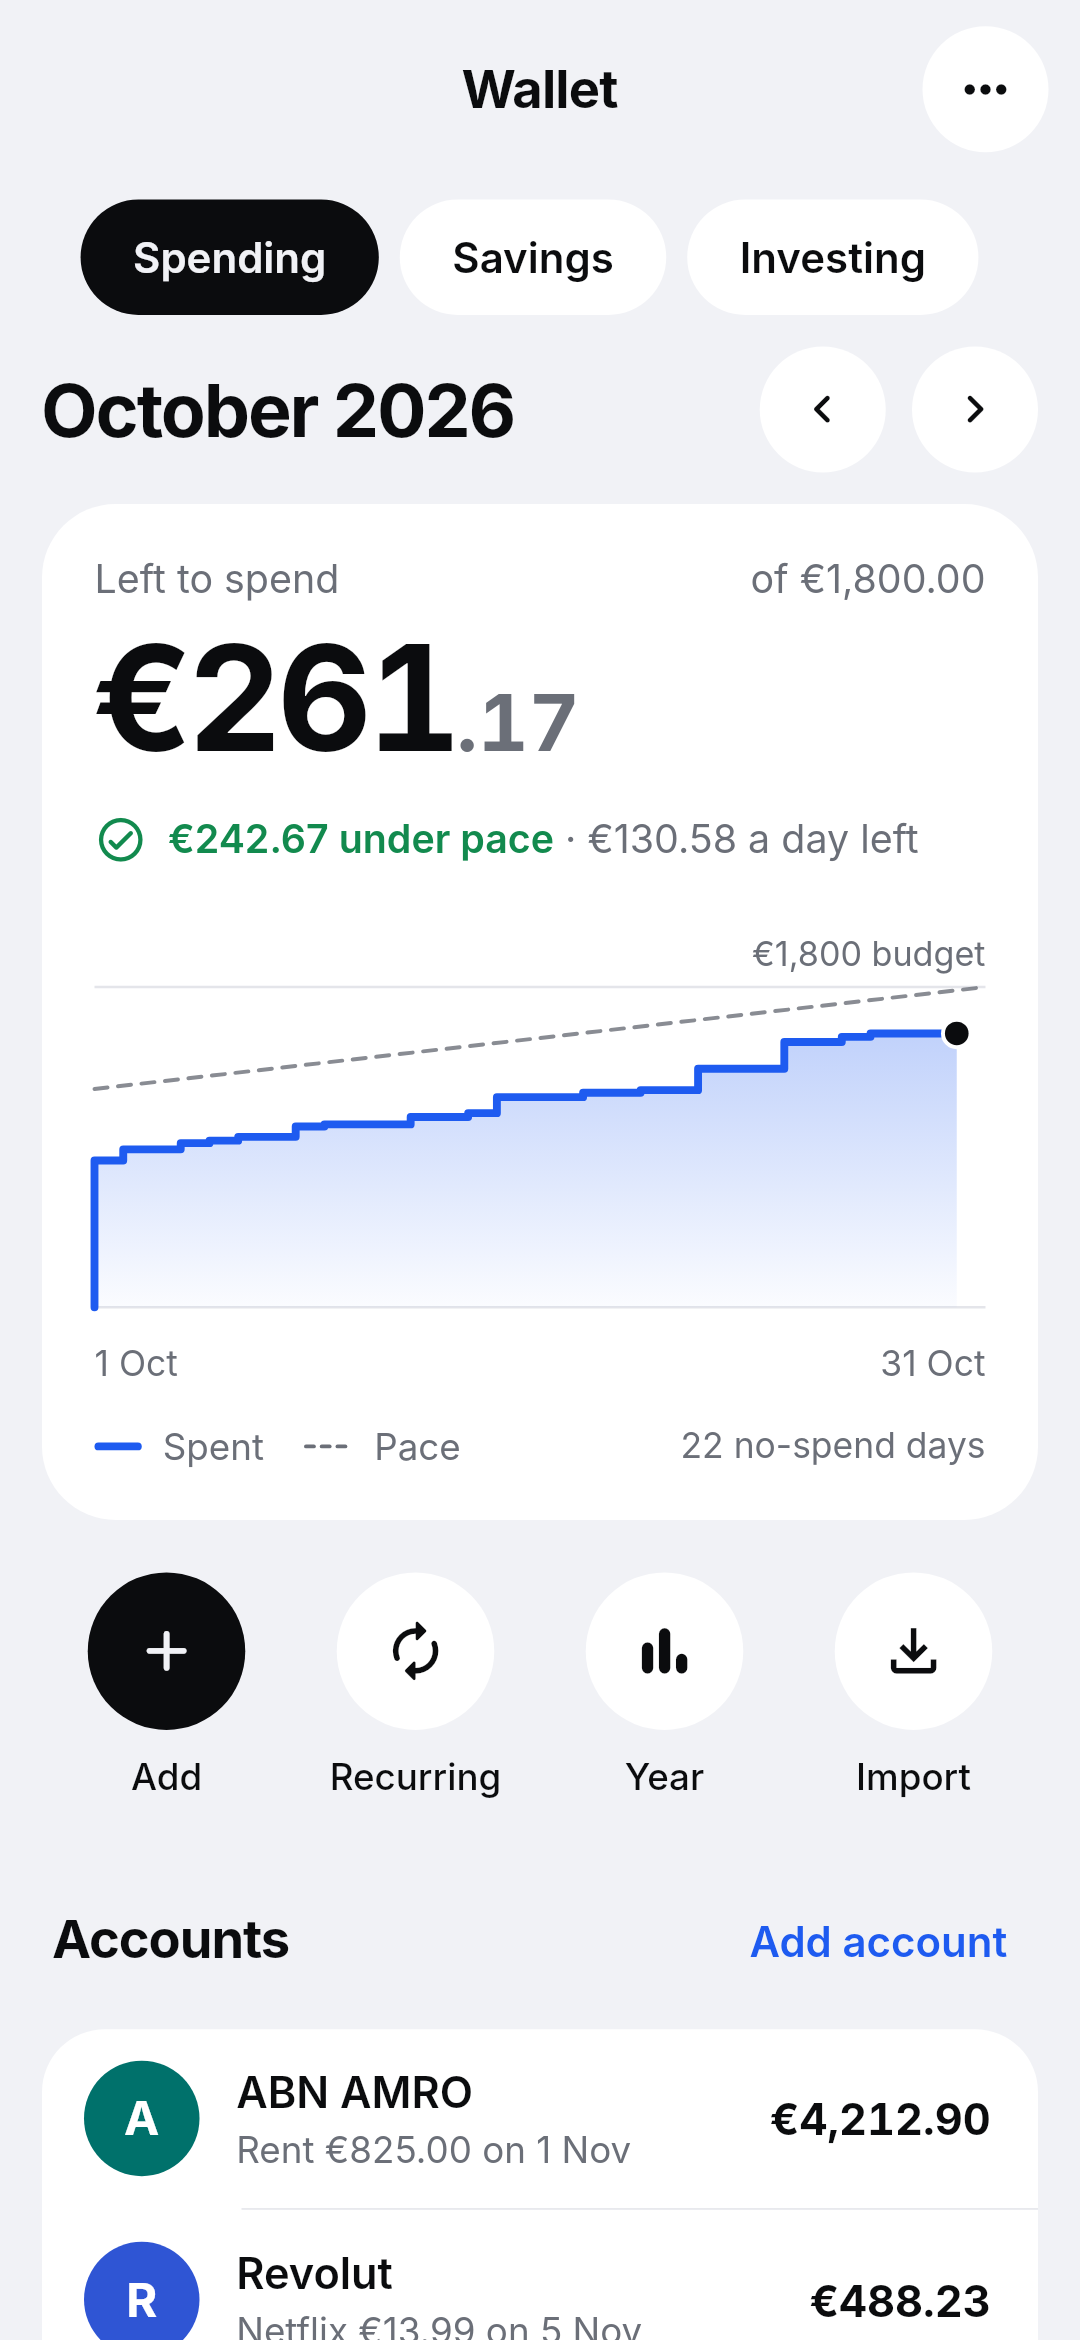
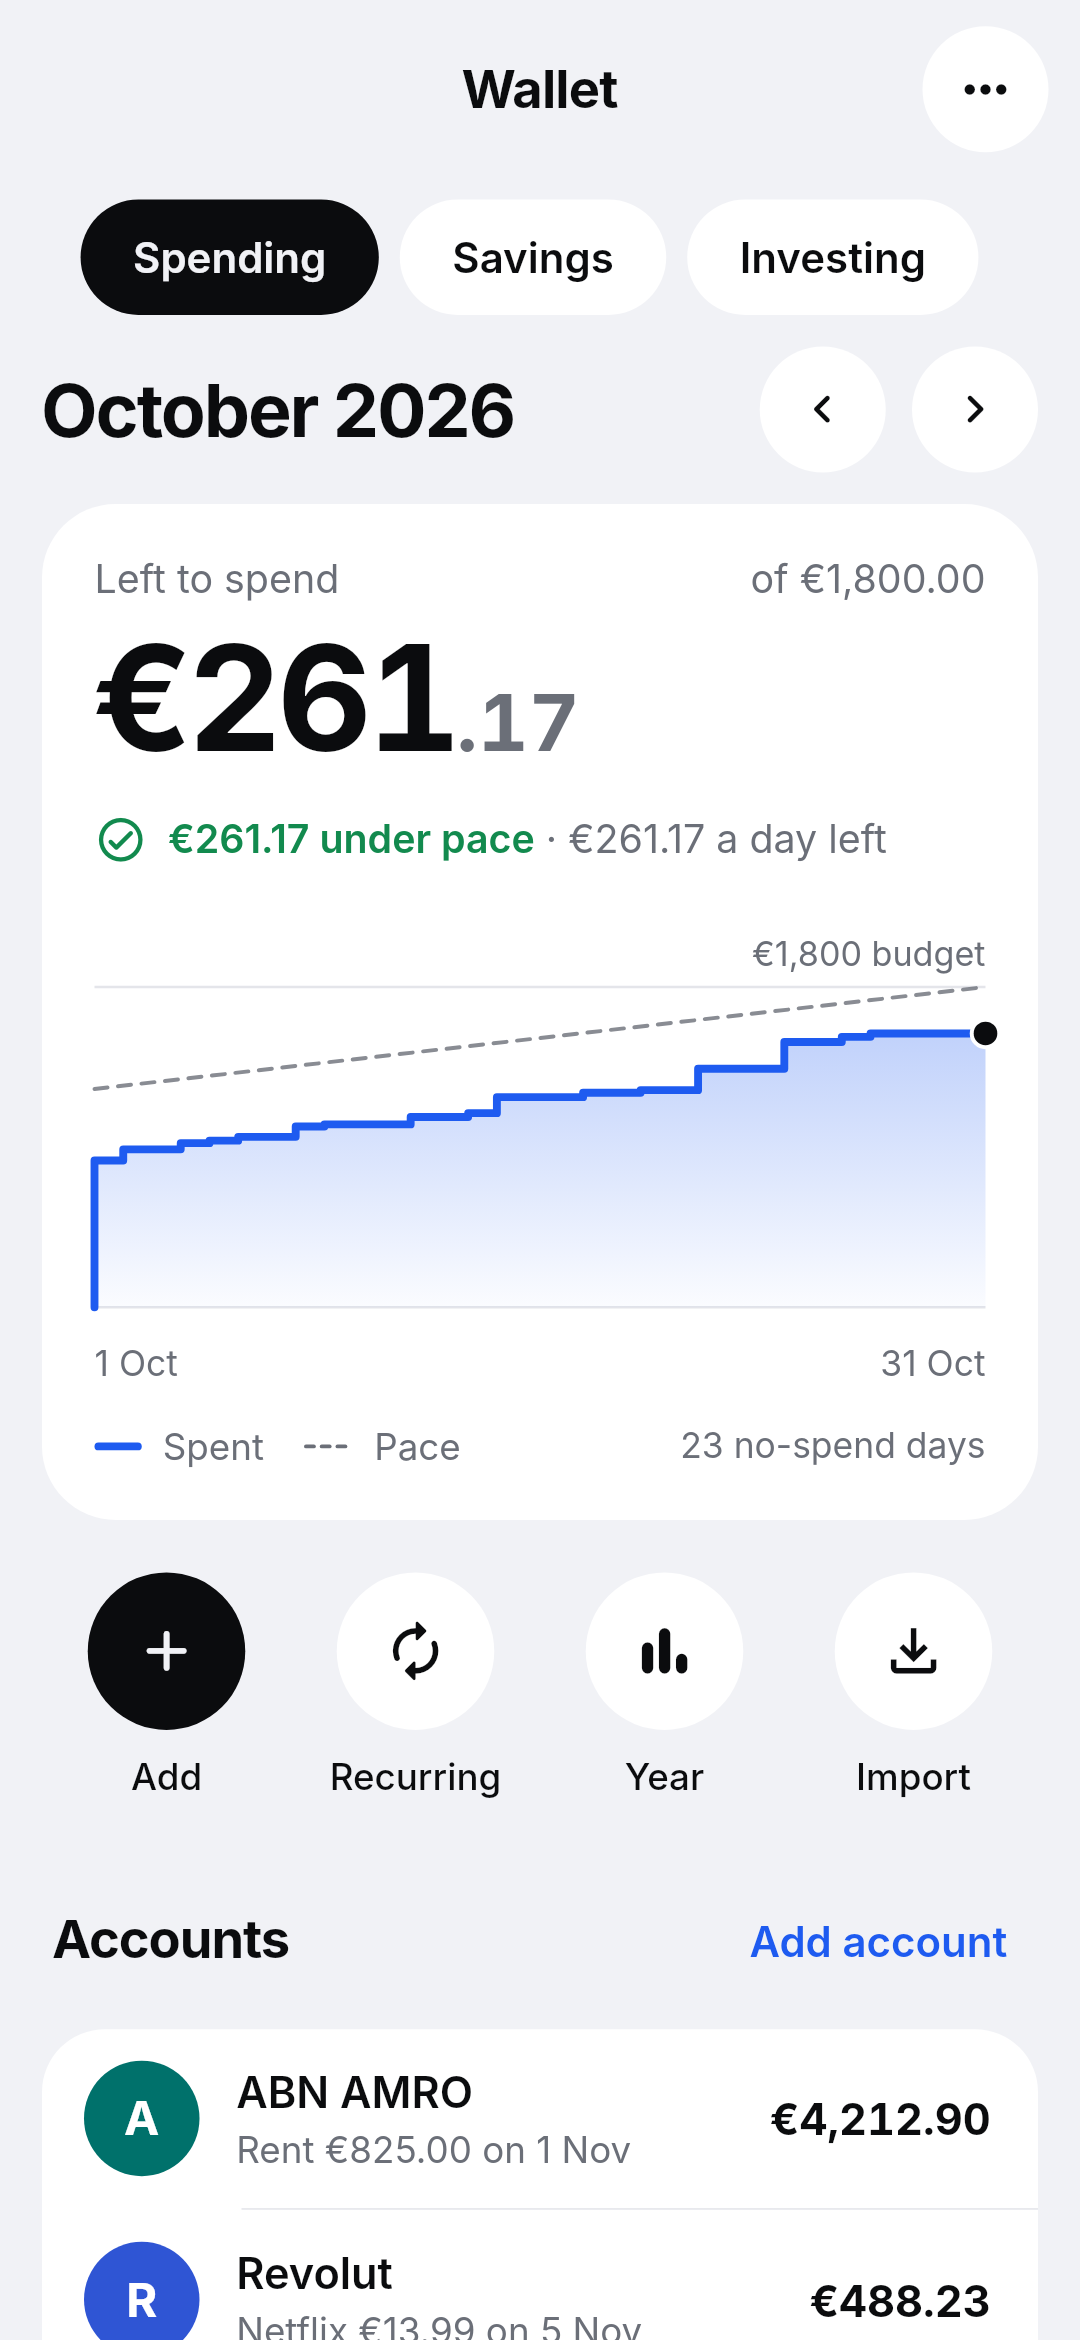
Round 2: tabs and Home customisation, agent edits with Undo, 22 bug fixes, fresh screenshots
Claude-Session: https://claude.ai/code/session_01Fpoxe4eFwgh2tEbagBqPri

Changed region(s): [[0.2139, 0.3432, 0.8556, 0.3744], [0.8556, 0.4368, 0.9167, 0.5303]]

diff --git a/lib/shell/home_page.dart b/lib/shell/home_page.dart
@@ -15,8 +15,7 @@ import '../apps/notes/notes_page.dart';
 import '../apps/registry.dart';
 import '../apps/spaces/my_spaces.dart';
 import '../apps/todo/todo_page.dart';
-import '../apps/wallet/insights.dart' show SpendPlan, spendTargetKey;
-import '../apps/wallet/wallet_model.dart';
+import '../apps/wallet/insights.dart' show monthSpendPlan, spentSoFar, spendTargetKey;
 import '../apps/weather/weather_page.dart';
 import '../apps/weather/weather_service.dart';
 import '../core/db/database.dart';
@@ -603,21 +602,20 @@ class _TodayStrip extends StatelessWidget {
                       stream: db.watchSubscriptions(),
                       builder: (context, sSnap) {
                         final entries = eSnap.data ?? const <Entry>[];
-                        // Booked payments are entries already; count only what is still to leave this month.
-                        final spent = MonthSummary(entries.where((e) => !e.date.isAfter(now)).toList()).out;
+                        // The same sums as Wallet's hero, so Home and Wallet never disagree.
                         if (target == null || target <= 0) {
-                          return _StripCell(value: _wholeMoney(spent, currency), label: 'Spent', onTap: onWallet);
+                          return _StripCell(
+                            value: _wholeMoney(spentSoFar(entries, now), currency),
+                            label: 'Spent',
+                            onTap: onWallet,
+                          );
                         }
-                        final billsAhead = (sSnap.data ?? const <Subscription>[])
-                            .where(
-                              (s) =>
-                                  s.active &&
-                                  s.kind.sign < 0 &&
-                                  !s.nextDate.isBefore(today) &&
-                                  s.nextDate.isBefore(monthEnd),
-                            )
-                            .fold<int>(0, (t, s) => t + s.amountCents);
-                        final plan = SpendPlan(target: target, spent: spent, billsAhead: billsAhead, now: now);
+                        final plan = monthSpendPlan(
+                          target: target,
+                          monthEntries: entries,
+                          subs: sSnap.data ?? const <Subscription>[],
+                          now: now,
+                        );
                         return _StripCell(
                           value: _wholeMoney(plan.left.abs(), currency),
                           label: plan.over ? 'Over target' : 'To spend',

diff --git a/lib/shell/shell.dart b/lib/shell/shell.dart
@@ -138,8 +138,8 @@ class _ShellState extends State<Shell> {
         key: ValueKey(t.id),
         child: switch (t.tab) {
           ShellTab.home => HomePage(onOpenTab: openTab),
-          // Pages that end with fixed padding stop above the bar instead of running on under it.
-          ShellTab.wallet || ShellTab.notes => _AboveBar(child: t.page()),
+          // Notes ends with fixed padding, so it stops above the bar instead of running on under it.
+          ShellTab.notes => _AboveBar(child: t.page()),
           _ => t.page(),
         },
       ),

diff --git a/CHANGELOG.md b/CHANGELOG.md
@@ -4,6 +4,27 @@ Builds are numbered by the CI run. Notable changes, newest first.
 
 ## October 2026
 
+### Your tabs, an agent that can change things, and 22 fixes
+- **Choose your bottom tabs**: pick which tabs sit next to Home (Calendar, Wallet, To-do, AI, Notes), drag them into
+  order and choose the tab Hub opens on. Hold the bar, or go to Me > Navigation.
+- **Top of Home**: switch the greeting, weather card, Today strip and apps on or off, show apps grouped or as one
+  grid, and drag apps into your own order.
+- **Text size**: Standard, Larger or Largest on top of your phone's own setting. The black dark background is now
+  called True black.
+- **The Hub agent can change things**: edit, reschedule or delete tasks and events, add to or rewrite notes, edit
+  recurring payments, add savings deposits, set your monthly budget, log Job hours, add important dates to a space
+  and tick habits. Every change is a card with what it was before; deletes are red. **Add all** for several cards,
+  and **Undo** after any of them.
+- **Ask AI from inside apps**: Explain my month (Wallet), Plan my week (Calendar), Prioritise (To-do), Summarise
+  (Notes).
+- Home and Wallet always agree on what is left to spend. The Work widget shows overtime or hours owed. The Clock
+  widget opens Calendar.
+- Fixes: edits in the task, shopping and event sheets are no longer lost when you swipe them away or press back;
+  date pickers no longer crash on old or far-off dates; Undo always undoes the last thing; "Clear all" done tasks
+  asks first; Duplicate keeps a task's details; an all-day event's start no longer jumps to 23:00; new events start
+  on the hour; mail dates show the year when needed; several sheets no longer overflow with large text or the
+  keyboard up; the Job + button no longer covers the day counts; Wallet scrolls under the glass bar.
+
 ### Wallet tab, an agent that knows your data, Job hours
 - **Wallet is a tab** next to Home, Calendar, To-do and AI. Back from any tab goes to Home; back on Home closes the app.
 - **Am I on track?** Wallet's "Day by day" card: a bar per day, no-spend days, safe to spend today, where the month will

diff --git a/docs/FEATURES.md b/docs/FEATURES.md
@@ -12,6 +12,10 @@ The home screen is a grid of widgets. Two ways to change it:
 - **Hold any widget** to open its settings, or
 - tap the **Edit home** button next to your avatar.
 
+Under **Me** (or **Top of Home** while editing) you can switch the greeting, weather card, Today strip and apps on
+or off, and show apps grouped or as one grid. **Choose apps** hides apps and drags them into order. Hold the bottom
+bar to choose which tabs it shows, their order and the tab Hub opens on.
+
 For each widget you can choose:
 
 | Setting | Options |
@@ -185,6 +189,11 @@ a balance for the year next to holidays left.
 - **The Hub agent reads all your data** through tools: calendar for any dates, recurring payments and subscriptions,
   transactions, balances, savings, investments, notes, tasks, habits, shopping, spaces, the work log and weather.
   Each answer says what it looked at. Models without tool support get a full snapshot in the prompt instead.
+- **The agent can change things too**, always as a card you confirm: edit, reschedule or delete tasks and events,
+  edit notes, edit recurring payments, savings deposits, the monthly budget, Job hours, space dates and habits.
+  Cards show what a change replaces; deletes are red. Add all, and Undo after each change.
+- **Ask AI from any app**: Explain my month (Wallet menu), Plan my week (Calendar), Prioritise (To-do), Summarise
+  (Notes).
 - **History**: every conversation is kept per mode. Reopen, search, rename or delete them; the empty chat lists the
   latest three.
 - **Usage**: tokens per message and per conversation, totals for today, this month and all time per model, and cost
